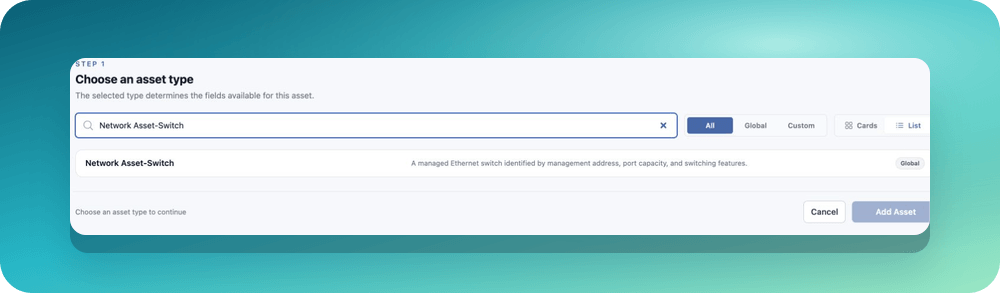
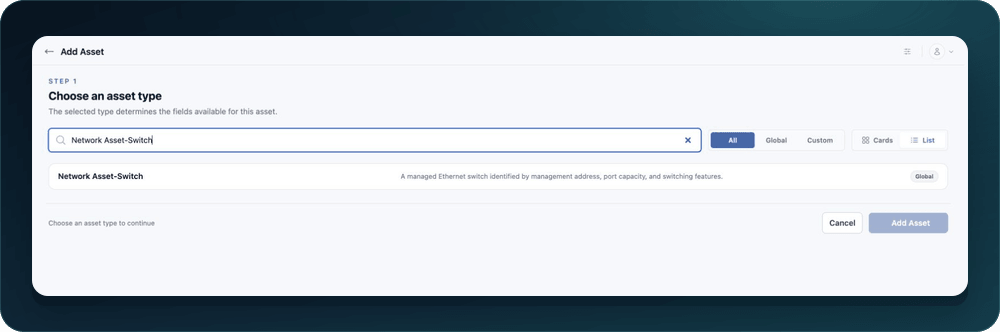
Widen screenshot captures and refine framing

diff --git a/media/screenshots/README.md b/media/screenshots/README.md
@@ -1,10 +1,10 @@
 # Screenshot publishing standard
 
-WanAware screenshots use a focused product capture inside a consistent branded frame. The treatment borrows the useful part of Linear's documentation pattern: one legible UI state, generous padding, rounded corners, and a quiet gradient that separates the product from the article.
+WanAware screenshots use a full-width product capture inside a consistent branded frame. The treatment borrows the useful part of Linear's documentation pattern: one legible UI state, comfortable spacing, rounded corners, and a quiet navy surface with a restrained cyan highlight.
 
 ## What each screenshot must do
 
-- Answer one question or show one consequential step. Split a long workflow into separate checkpoints instead of shrinking an entire page into one image.
+- Answer one question or show one consequential step. Preserve the complete application content width; split a long workflow into separate checkpoints instead of shrinking an entire page into one image.
 - Keep the WanAware UI unchanged. Do not invent values, move controls, blur labels, or edit the visible product state.
 - Crop browser chrome, the account switcher, unrelated navigation, empty space, internal URLs, identifiers, notifications, and customer or secret data.
 - Use environment-neutral sample values. The capture workspace is provenance, not part of the customer instruction.
@@ -15,7 +15,7 @@ WanAware screenshots use a focused product capture inside a consistent branded f
 1. Use a 1720 × 1024 browser viewport in Light mode unless the article specifically explains themes.
 2. Put the released UI into the exact checkpoint the article describes. Do not save or submit a consequential change merely to obtain a screenshot.
 3. Capture the browser content to a temporary PNG outside the repository.
-4. Choose a tight crop containing the page title or step heading, the relevant fields or choices, and the action the reader needs next.
+4. Crop out only unrelated navigation and empty space below the last useful checkpoint. Keep the full application content width, page title or step heading, relevant fields or choices, and the action the reader needs next.
 5. Run the framing command:
 
    ```bash
@@ -23,7 +23,7 @@ WanAware screenshots use a focused product capture inside a consistent branded f
      --input /tmp/capture.png \
      --source-out media/screenshots/source/example.png \
      --output media/screenshots/example.png \
-     --crop 230,70,1460,700
+     --crop 63,0,1658,760
    ```
 
 6. Inspect the source crop and framed PNG. The publishing image must be 750–1000 pixels wide, remain readable at normal article width, and be 250 KB or less.
